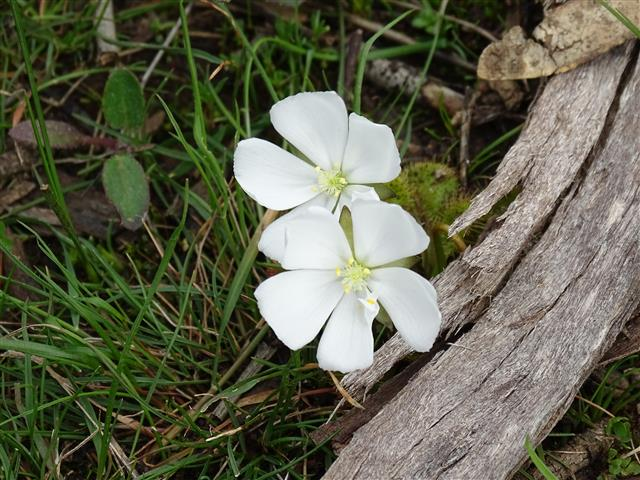
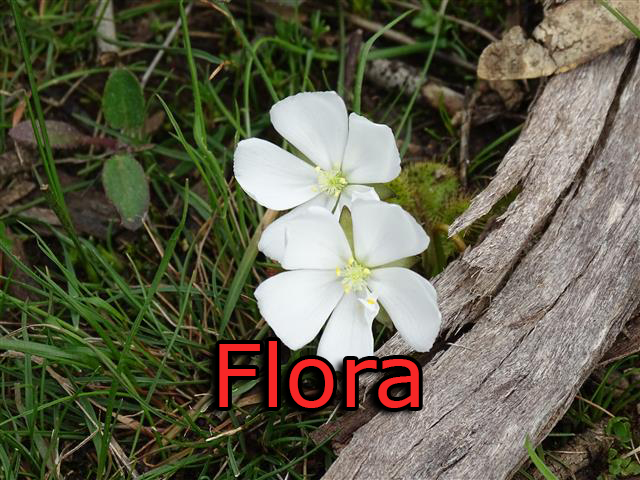
photoshopped

Changed region(s): [[0.3125, 0.6875, 0.6875, 0.875]]

diff --git a/Blackham Final/Gallery.html b/Blackham Final/Gallery.html
@@ -97,7 +97,7 @@
 <img src="assets/images/birdimagesm.png" width = "200px" height = "200px">
 </div>
 
-<!----Replace with photoshopped images---->
+<!----replaced :)---->
 <div class="mainimg">
 <a href="Gallery2.html"><img src="assets/images/DSC01950.jpg" width="100%" height="100%"></a>
 </div>
